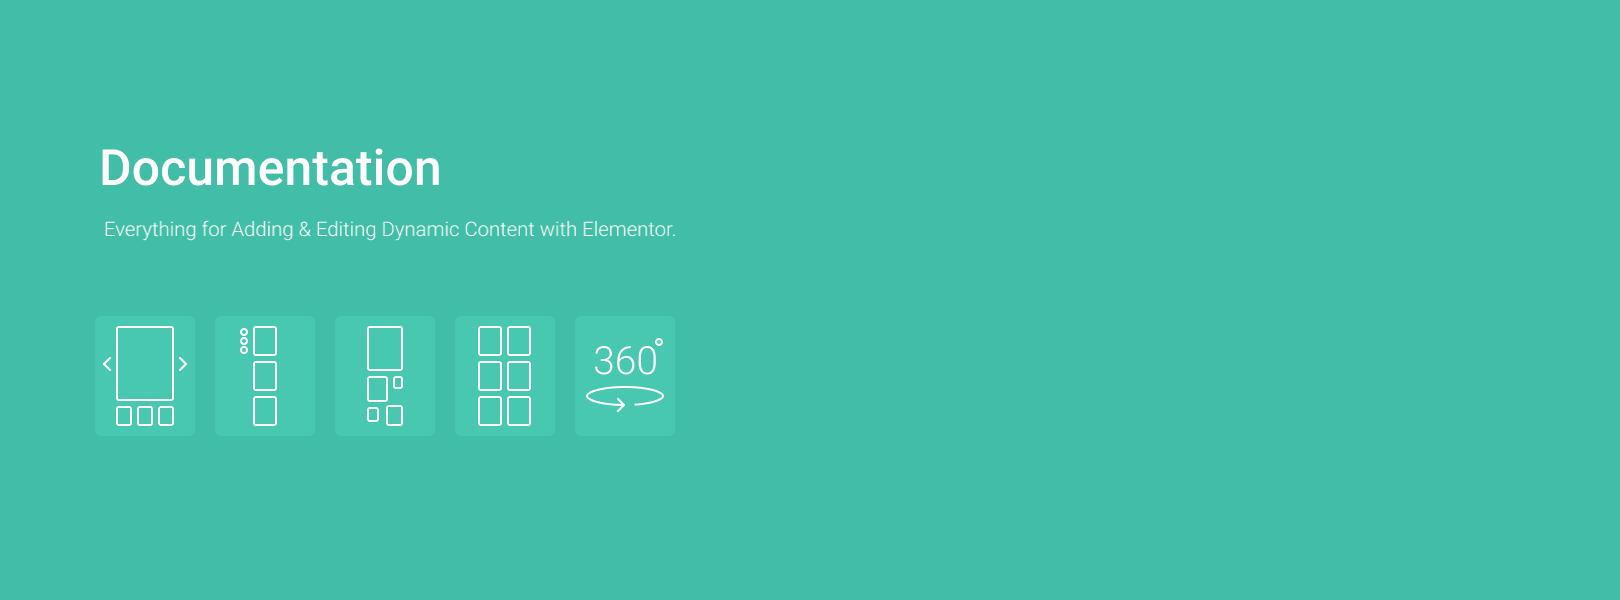
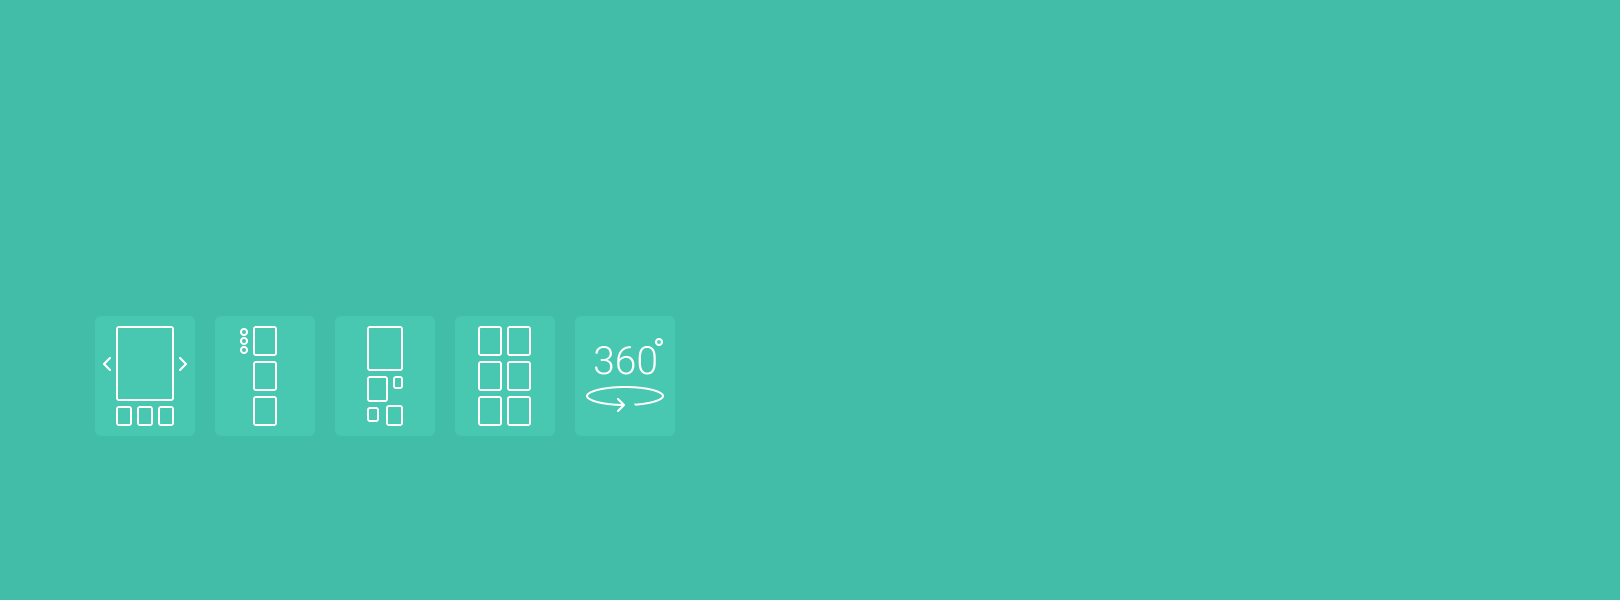
add JetProductGallery doc full

Changed region(s): [[0.0617, 0.24, 0.2778, 0.33], [0.0617, 0.36, 0.4321, 0.39]]

diff --git a/projects/jetproductgallery/project_styles.css b/projects/jetproductgallery/project_styles.css
@@ -17,25 +17,20 @@ h4 {
   background-position: 0% bottom; }
 
 .rd-mobilepanel {
-  background-color: #aa3992;
+  background-color: #42bda7;
   background-position: right top;
-  -webkit-transition-property: height;
-          transition-property: height;
-  -webkit-transition-duration: 2s;
-          transition-duration: 2s;
-  -webkit-transition-timing-function: linear;
-          transition-timing-function: linear;
-  -webkit-transition-delay: 1s;
-          transition-delay: 1s; }
+  transition-property: height;
+  transition-duration: 2s;
+  transition-timing-function: linear;
+  transition-delay: 1s; }
 
 [data-section="introduction"] .rd-mobilepanel {
-  background-image: url(none);
+  background-image: url("../../projects/jetproductgallery/img/header-bg.png");
   height: 600px; }
   [data-section="introduction"] .rd-mobilepanel.fixed {
     height: 56px;
     background-image: none;
-    -webkit-transition: top 1s ease-out 0.5s;
-            transition: top 1s ease-out 0.5s; }
+    transition: top 1s ease-out 0.5s; }
 
 body:not([data-section="introduction"]) .tm-title-caption {
   display: none; }
@@ -48,7 +43,7 @@ body:not([data-section="introduction"]) .tm-title-caption {
 .rd-mobilepanel_title {
   font-size: 48px;
   font-weight: 600;
-  top: 237px;
+  top: 130px;
   left: 158px;
   width: 500px;
   letter-spacing: 3px; }
@@ -93,21 +88,21 @@ body:not([data-section="introduction"]) .tm-title-caption {
   background-color: #fff; }
 
 .rd-mobilemenu_ul ul a.focus {
-  color: #a0378f; }
+  color: #42bda7; }
 
 .toTop {
-  background-color: #a0378f;
+  background-color: #42bda7;
   color: #ffffff; }
   .toTop:hover {
-    background-color: #5e1f50; }
+    background-color: #287164; }
 
 .files_structure li .fa {
   margin-top: 3px;
   margin-right: 10px;
-  color: #a0378f;
+  color: #42bda7;
   font-size: 16px; }
 
 article a {
-  color: #a0378f; }
+  color: #42bda7; }
 
 /*# sourceMappingURL=project_styles.css.map */

diff --git a/projects/jetproductgallery/project_styles.scss b/projects/jetproductgallery/project_styles.scss
@@ -3,12 +3,12 @@
 //========================================================
 
 $primary-color: #ffffff;
-$primary-color-second: #aa3992;
+$primary-color-second: #42bda7;
 $primary-color-dark: #22272d;
 $secondary-color: #e91b1a;
 $secondary-color-light: #fff;
 
-$header-background-image: none;
+$header-background-image: '../../projects/jetproductgallery/img/header-bg.png';
 
 @import url(https://fonts.googleapis.com/css?family=Roboto);
 $primary-font-family: 'Roboto', sans-serif;
@@ -85,7 +85,7 @@ body:not([data-section="introduction"]) {
 .rd-mobilepanel_title {
 	font-size: 48px;
 	font-weight:600;
-	top:237px;
+	top:130px;
 	left: 158px;
 	width: 500px;
 	letter-spacing: 3px;
@@ -142,14 +142,14 @@ body:not([data-section="introduction"]) {
 	ul{
 		a{
 			&.focus{
-				color: #a0378f;
+				color: #42bda7;
 			}
 		}
 	}
 }
 
 .toTop {
-	background-color: #a0378f;
+	background-color: #42bda7;
 	color: #ffffff;
 	&:hover {
     	background-color:darken($primary-color-second,20%);
@@ -159,10 +159,10 @@ body:not([data-section="introduction"]) {
 .files_structure li .fa {
     margin-top: 3px;
     margin-right: 10px;
-    color: #a0378f;
+    color: #42bda7;
     font-size: 16px;
 }
 
 article a {
-    color: #a0378f;
+    color: #42bda7;
 }
